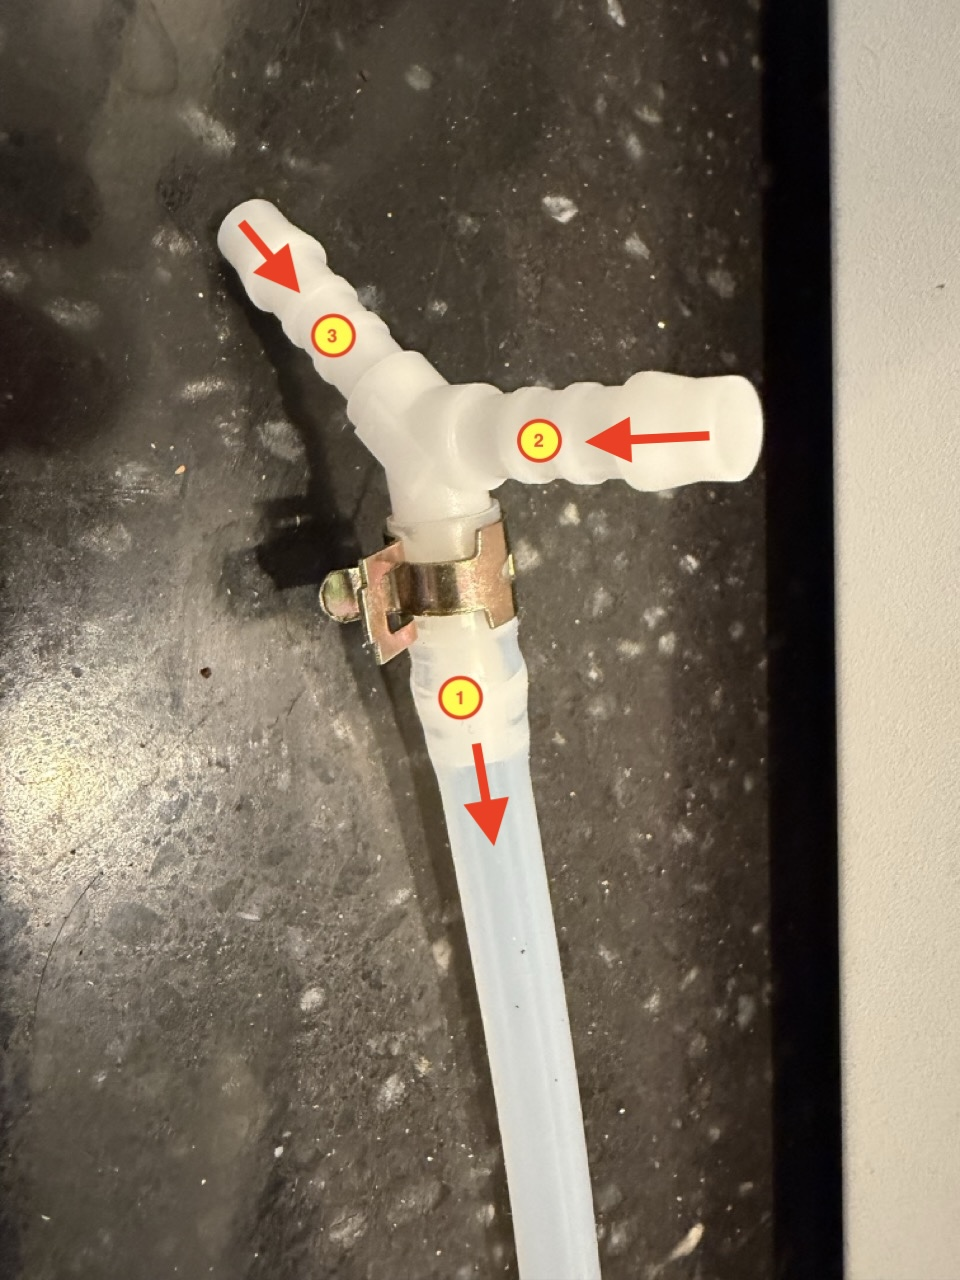
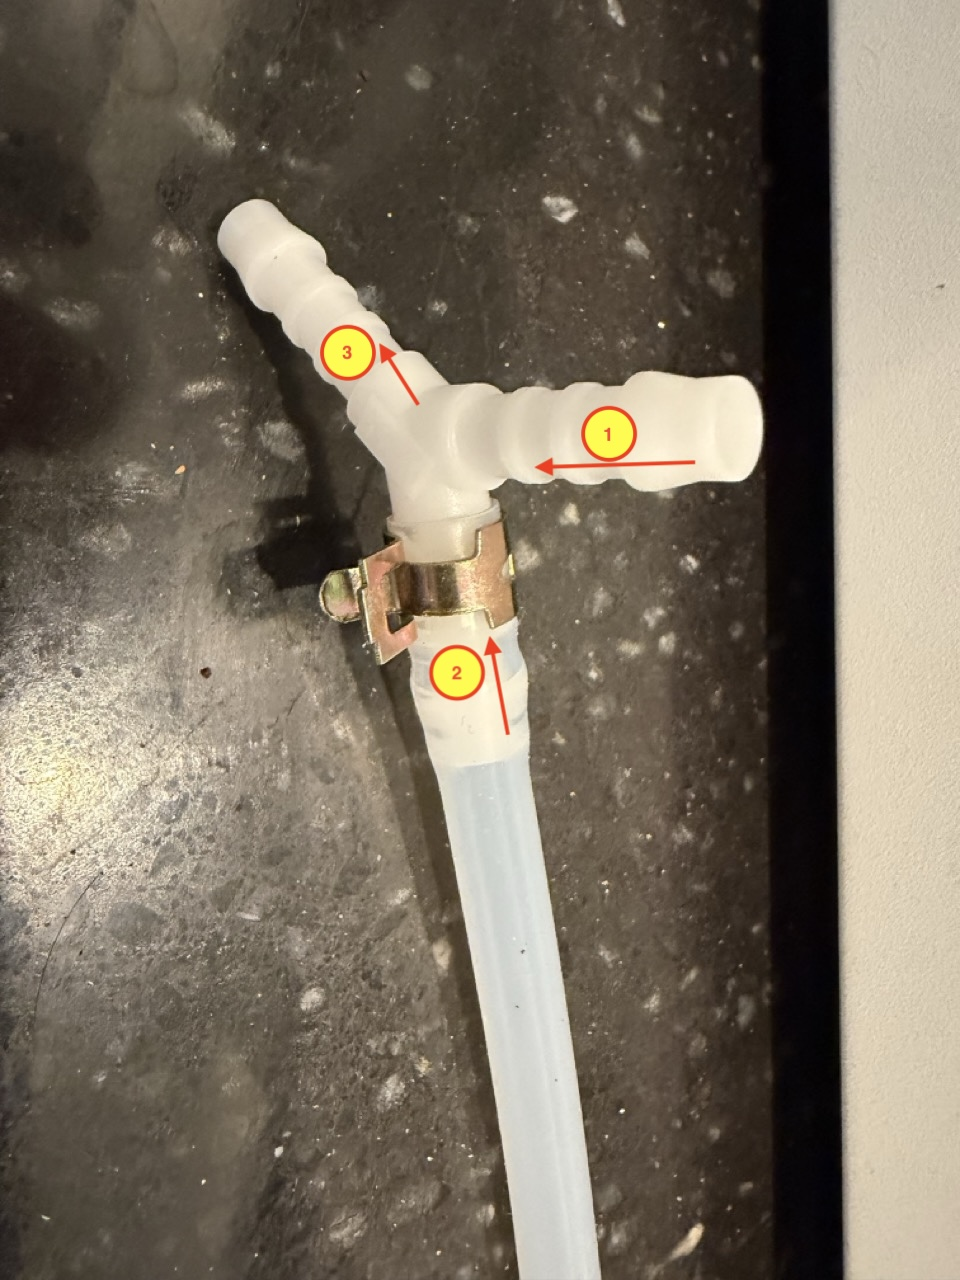
AscasoSteelMod blog post done

diff --git a/_posts/2026-10-25-ascaso-v3-mod.md b/_posts/2026-10-25-ascaso-v3-mod.md
@@ -7,16 +7,135 @@ description: "Inspired by a reddit post I moded my espresso machine and created 
 ---
 
 ## Intro
+Give credit where credit is due - my work and instructions are based on [this reddit post](https://www.reddit.com/r/Ascaso/s/GC7wgwMkaL) by u/DamnFineCaffeine. I just did my mod slightly different, took pictures along the way and wrote it down in this post. So a big shout out to u/DamnFineCaffeine! For better orientation I will directly reference his schematic drawing which compares the water flow before and after the mod:
+
+![Schema](https://i.redd.it/sh4nfs12zgth1.jpg)
+*1. schematic overview by reddit user u/DamnFineCaffeine*
+
+This mod though is fully reversible and no hose or other parts will be cut/changed. For the hose we will use a new part and the original hose will remain as it is. Actually we just add one extra piece and one extra hose - that's it!
+
+## Motivation
+Two years ago I bought me a Christmas prestent - an Ascaso Steel Duo PID v2 and a Eureka Mignon XL. I love this machine! The looks, the haptics the fact that it is a thermoblock and not a boiler machine which gives me a perfect coffee witin 5 minutes. But one thing bothered me all the time: I got inconsitent results. Sometimes I would have 19g espresso in my cup for a cappuccino and some times it was 28g (some days even worse). Although I took my time and dialed it in at 9g in and 22.5g out. So I started to grind 4-5g in the morning and throw it away. Didn't help much as my Eureka was a time based grinder. So I got my self an upgrade: Fiorenzato Allground Sense. It is a beautiful grinder with grind by weight and helped me to get 18g of coffee powder in my double basket - every signle time. But even with this my results did vary. And than I found this blog post at reddit and it suddenly all made sense. The flow meter of my beloved Asacso Steel was measuring the inflow but the OPV did mess with the total amount of water that would eventually reach my cup. After thinking it through for a few days I decided to give it a try. Spoiler alter: It is amazing and not too hard to do on your own (the fiddling in the little space of the machine aside).
 
 ## Getting to work
+Alright, let's get to work. At first we need to get all items we need for the mod. Than we will prepare the machine to be ready to do the modification. And than of course we will mod the Asacso Steel Duo PID.
+
+### Materials and tools you will need
+Make sure to have everything at hand that you need:
+#### Materials
+* [Y-Fitting](https://amzn.eu/d/0avndX0k)
+* [silicone hose 5/8mm diameter (inner/outer)](https://amzn.eu/d/0gYYsWWi)
+* [hose clamps](https://amzn.eu/d/043C2csE)
+#### Tools
+* screw driver
+* needle-nose pliers
+* tweezers
+![Tools]({{ page.img | relative_url }}/ascaso-v3-mod-11.jpeg)
+*2. tools I used to get the mod done*
+
 
 ### Prepare your machine
-Take out the water reservoir, empty it and put it aside. Than you need to take off the top plate of your Ascaso which is the cup heater. You just have to unscrew two screws at the back of your machine and than you can carefully pull the plate backwards. Be aware that there is a cable connected to the plate to heat it up. So don't just rip it off ;-) You can easily uplug the cable from the heating pad on the bottom side of the plate. Than place the top plate aside.
+At very first you need to unplug the machine from electric power! Don't open the machine before you reomved the plug. Take out the water reservoir, empty it and put it aside. Than you need to take off the top plate of your Ascaso which is the cup heater. You just have to unscrew two screws at the back of your machine and than you can carefully pull the plate backwards. Be aware that there is a cable connected to the plate to heat it up. So don't just rip it off ;-) You can easily uplug the cable from the heating pad on the bottom side of the plate. Than place the top plate aside.
 
 Now you are ready to get started.
 
 ### Giving you an overview of the components inside your machine
-Be prepared to see a mess ;-) I was suprised by the density and amount of cables when I opened the machine.
+Be prepared to see a mess ;-) I was suprised by the density and amount of cables when I opened the machine. So here is a brief overview of what you will see:
+1. OPV return hose
+2. Steam return hose
+3. Flow meter
+4. Cup heating power line (which you should have detached)
+5. Water pump inflow hose
+6. Steam inflow hose
+7. Plate separating water tank and inner electronics
 
 ![Overview]({{ page.img | relative_url }}/ascaso-v3-mod-0.jpeg)
-*looking inside the machine*
+*3. looking inside the machine*
+
+You will be working on (1) OPV return hose and (3) FLow meter and you need to unscrew (7)
+
+### Getting a little more space to work inside your machine
+As everything is packed in very little space you will most probably have a hard time getting your hands in there. At least I had. And as I am also not a professional espresos machine engineer I didn't dare to remove to many parts. So I just unscrewed the plate which seperates the water tank from the inner electronics. There is one screw inside the machine (you can see it on the overview tagged with 7) and one on the outside. That's it. Than you can carefully pull up that plate a little bit and than it should get loose. On the right side of it there is some more electronics attached. Just leave it be and move the plate a bit more to the backside of the machine. This should give you just about enough room to work inside the machine without breaking your fingers.
+
+### Set up the Y-fitting
+Ok let's have a closer look at the water flow. On this picture you will see the hose returning the water from OPV to the water tank (1). And the hose which runs from the flow meter to the water pump to actually feed the water into the heating and finally resulting in your espresso (2).
+
+![Current-Flow]({{ page.img | relative_url }}/ascaso-v3-mod-1.jpeg)
+*4. original water flow*
+
+Now let's prepare the Y-fitting:
+
+![Y-Fitting]({{ page.img | relative_url }}/ascaso-v3-mod-2.jpeg)
+*5. preparing the Y-fitting*
+
+On the picture you see the Y-fitting with (1) the return of the OPV where we will attach the original hose comming from the OPV. At (2) you need to attach the new hose - don't cut it yet, just attach it and secure it with a hose clamp. The other end of the hose will finally be attached to the flow meter outflow. And at (3) you see the flow towards the water pump where we will attach the hose comming out of the flow meter.
+
+### Re-wiring the OPV hose
+This is the moment where you will change your machine ;-)
+Unplug the the hose comming from OPV from the drain which leads into the water tank - seen on picture 5 (1). Than plug it onto the Y-fitting and secure it with a hose clamp:
+
+![OPV-Hose]({{ page.img | relative_url }}/ascaso-v3-mod-4.jpeg)
+*6. re-wiring the OPV hose*
+
+### Re-wiring the flow-meter out hose
+We have reached the hardest part of the mod: rewiring the flow-meter hose which runs to the pump. Let's take a look at this picture to get some orientation:
+
+![Flowmeter]({{ page.img | relative_url }}/ascaso-v3-mod-5.jpeg)
+*7. re-wiring the flow-meter hose*
+
+(1) hose running from Y-fitting to water pump
+(2) hose comming from OPV
+(3) new hose - still in full length
+(4) flow meter
+
+(2) and (3) have been already done in the previous steps. We focus on (1) and (4).
+The hose you see attached to the Y-fitting (1) was attached to the flow meter (4) before. So try to get your hands on the flow meter and pull the hose off. Maybe a needle-nose pliers or tweezers helps here. Than you need to find a nice way around all the other cables and the stuff in your machine and attach it to the Y-fitting and secure it with a hose clamp. You will probably have to pull it downwards where it runs around the steam heating and push it upwards close to tha plate infront of the water tank. Keep an eye on the hose so that it does not have any kinks or knots.
+
+### Take a deep breath
+You are half way through! Great job so far! relax your finger and take a deep breath.
+
+### Attaching the new hose to the flow meter
+This may now seem like a step backwards but for me it was easier to detach the new hose form the Y-fitting to have more freedom to do this step:
+
+![Y-Fitting-Prepared]({{ page.img | relative_url }}/ascaso-v3-mod-6.jpeg)
+*8. Y-fitting with OPV in and water pump out*
+
+Than we will attach the new hose, still in full length, to the flow meter. Make sure to have the hose clamp on the hose already. Than you need to fiddle a bit as there is really not much space. A tweezer could be helpful to slowly move the hose onto the flow mter out. Use the pliers to get the hose clamp in position. Now carfully fiddle the rest of the new hose on a kink free route to the position where the OPV backflow lead to the water tank. This picture should give you some orientation:
+
+![New-Hose-Attached]({{ page.img | relative_url }}/ascaso-v3-mod-7.jpeg)
+*9. New hose attached to the flow meter*
+
+(1) hose running to the water pump
+(2) hose comming from the OPV
+(3) input for the hose comming from flow meter
+(4) flow meter out with attached new hose
+(5) hose comming from flow meter
+
+### Final step: cut the hose and attach it
+We are almost there! Now it is time to cut the new hose! Don't be too greedy here, give it some play but not too much. Than attach it to the Y-fitting and secure it with a hose clamp:
+
+![New-Hose-Y-Fitting]({{ page.img | relative_url }}/ascaso-v3-mod-8.jpeg)
+*10. New hose cut and attached to the Y-fitting*
+
+Now stow the Y-fitting where you find a good spot. I just moved it a little bit down deeper into the machine below the water tank plate. Here you see a picture from the front towards the water tank:
+
+![Y-Fitting-Stowed]({{ page.img | relative_url }}/ascaso-v3-mod-9.jpeg)
+*11. Finally the Y-fitting is stowed inside the machine*
+
+(1) hose comming from OPV
+(2) hose running towards water pump
+(3) new hose comming from flow meter
+
+### Closing
+Now it is time to get everything back in place and close the machine. Start with the water tank plate and shove it from above into its compartment than attach the screws. Than attach the heating plate calbes - or leave it out if you don't want the heated cup plate. And get the top plate of the machine back in place and insert the last two screws. Plug it in and gibe it a test run - your done!
+
+### Enjoy your espresso, cappuccino, latte macchiato
+You made it! Congratulations on your v3 mod for your Asacso Steel Duo PID. Now it is time to enjoy your favourite specialty cofee.
+
+![Enjoy]({{ page.img | relative_url }}/ascaso-v3-mod-10.jpeg)
+*12. Enjoy your coffee*
+
+### Final thoughts
+After the mod you should dial in your espresso again. For the last two weeks I measured every shot from the machine and it was giving me very constant results. I measured the amount of espresso with a scale and two cups as I almost always are making two cappuccino for my wife and me. I dialed it in at 18g in and 45g out for two cups. The variance was +/- 2g reaching from 43g to 47g. I think that is a prett nice result compared to where I started.
+
+Being a barista is a craft, and coffee is a natural product. I am by no means a barista, but I love good coffee. But results vary as beans are diffent and a lot of factors influence your result. A professional barista with professinol equipment can handle that. But I had to get rid of as many varying factors as I could. And still the beans age, the remaining coffee powder in the machine has influnce on your result and air humidty, the presure you put on the tamper - and maybe even the moon ;-) all influence the espresso you get. But after this mod I get the best espresso I can get at my home and I couldn't be happier - enjoy your coffe :-)
